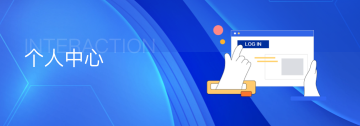
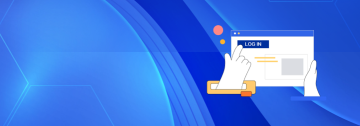
个人中心国际化

Changed region(s): [[0.0611, 0.3095, 0.4278, 0.5476]]

diff --git a/packages/euler/src/views/mobile/user-center/UserCenter.vue b/packages/euler/src/views/mobile/user-center/UserCenter.vue
@@ -35,10 +35,10 @@ onMounted(() => {
 </script>
 <template>
   <div class="banner">
-    <!-- <div class="title">
+    <div class="title">
       <h1 class="title-in">USER CENTER</h1>
       <h1 class="title-out">{{ i18n.USER_CENTER }}</h1>
-    </div> -->
+    </div>
   </div>
   <div class="main">
     <div class="left">
@@ -59,22 +59,20 @@ onMounted(() => {
   background-repeat: no-repeat;
   background-position: left;
   .title {
-    margin: 0 auto;
-    max-width: 1472px;
     padding: 0 var(--o-spacing-h6);
     position: relative;
     &-in {
       position: absolute;
-      top: 20px;
-      font-size: 38px;
+      top: 38px;
+      font-size: 24px;
       font-weight: bold;
       color: rgba(0, 47, 167, 0.14);
       line-height: 34px;
     }
     &-out {
       position: absolute;
-      top: 32px;
-      font-size: 24px;
+      top: 28px;
+      font-size: 18px;
       font-weight: 500;
       color: var(--o-color-white);
       line-height: 76px;
